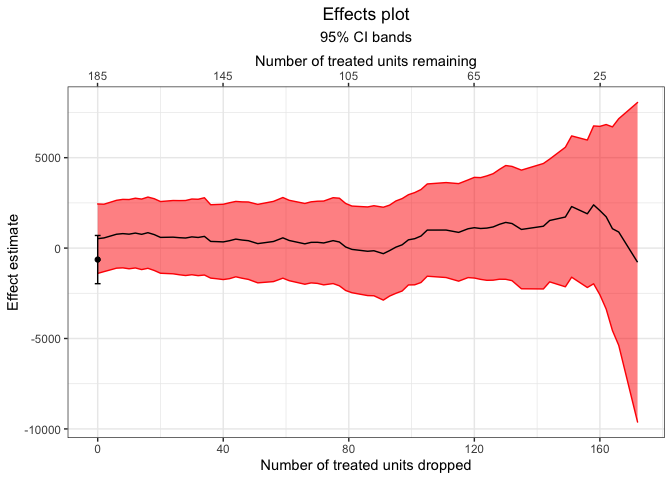
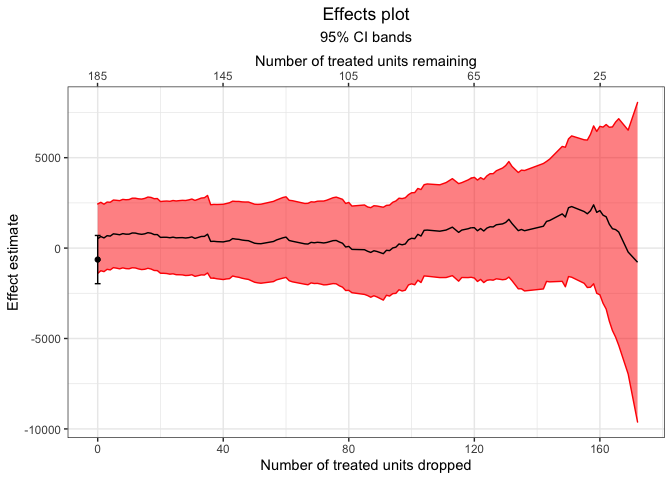
Updates to reflect change from prop.estimated to n.estimated

diff --git a/README.md b/README.md
@@ -34,7 +34,13 @@ mahal.frontier <- makeFrontier(treat ~ age + educ + race + married +
                                data = lalonde, 
                                QOI = "FSATT", 
                                metric = "mahal")
+```
 
+    #> Computing distance matrix...
+    #> Calculating frontier...
+    #> Done!
+
+``` r
 mahal.frontier
 ```
 
@@ -60,7 +66,6 @@ We can then estimate effects along the frontier.
 ``` r
 mahal.estimates <- estimateEffects(mahal.frontier, 
                                    base.form = re78 ~ treat,
-                                   prop.estimated = .5,
                                    verbose = FALSE)
 mahal.estimates
 ```
@@ -68,7 +73,7 @@ mahal.estimates
     #> A frontierEstimates object
     #> - quantity of interest: FSATT
     #> - model sensitivity method: none
-    #> - number of estimates: 69
+    #> - number of estimates: 137
     #> - treatment: treat
     #> - covariates: age, educ, race, married, nodegree, re74, re75
     #> - outcome model: re78 ~ treat
